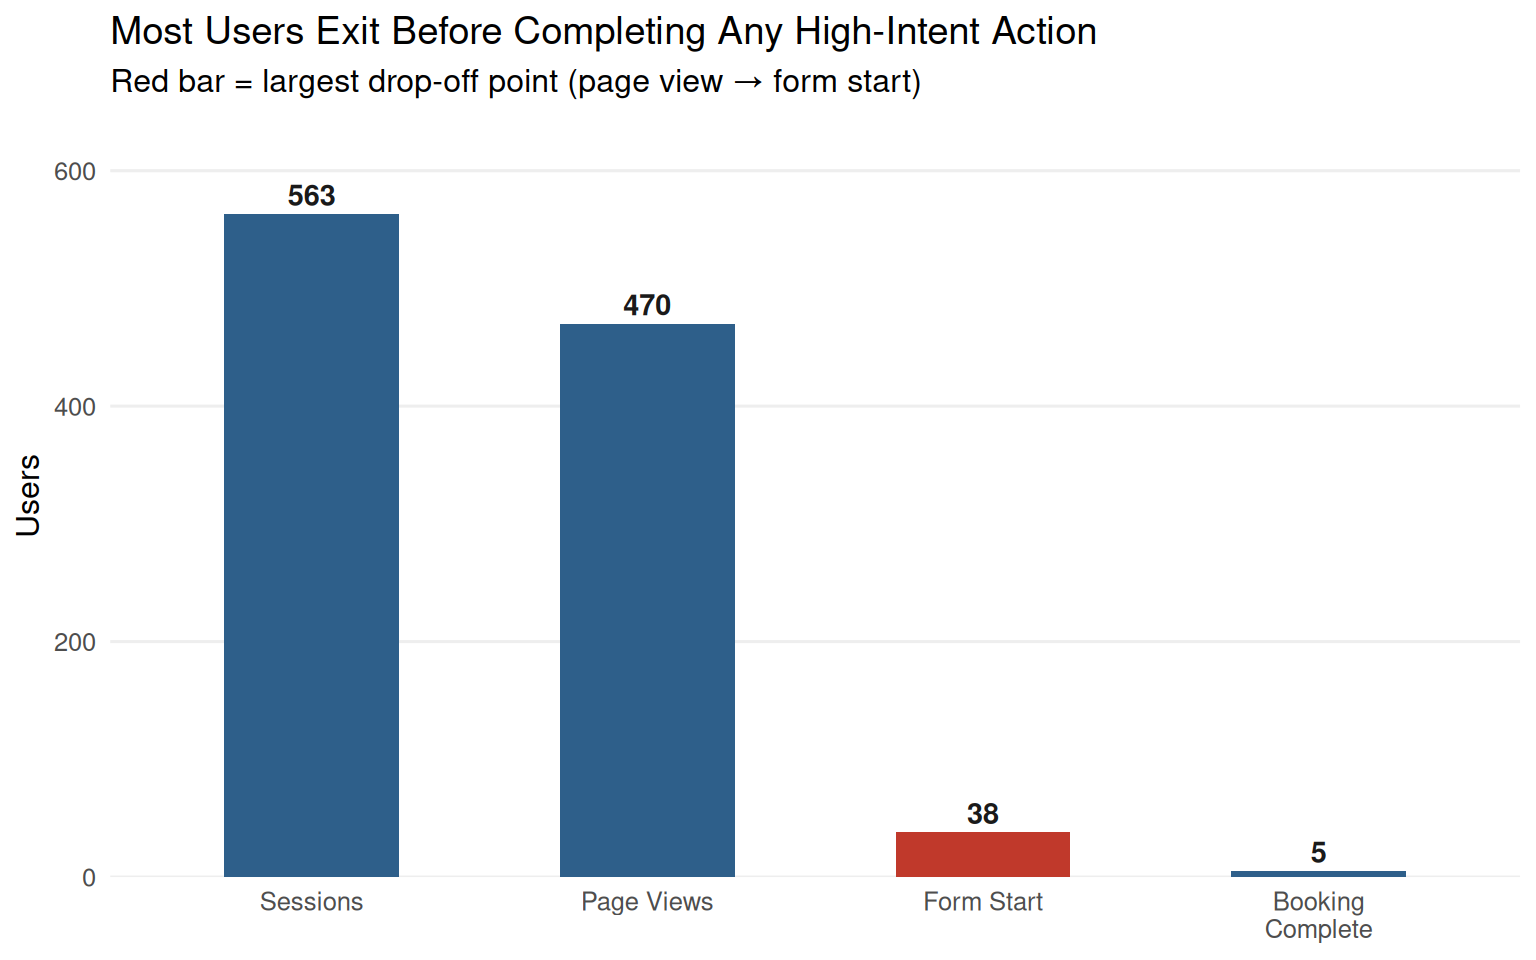
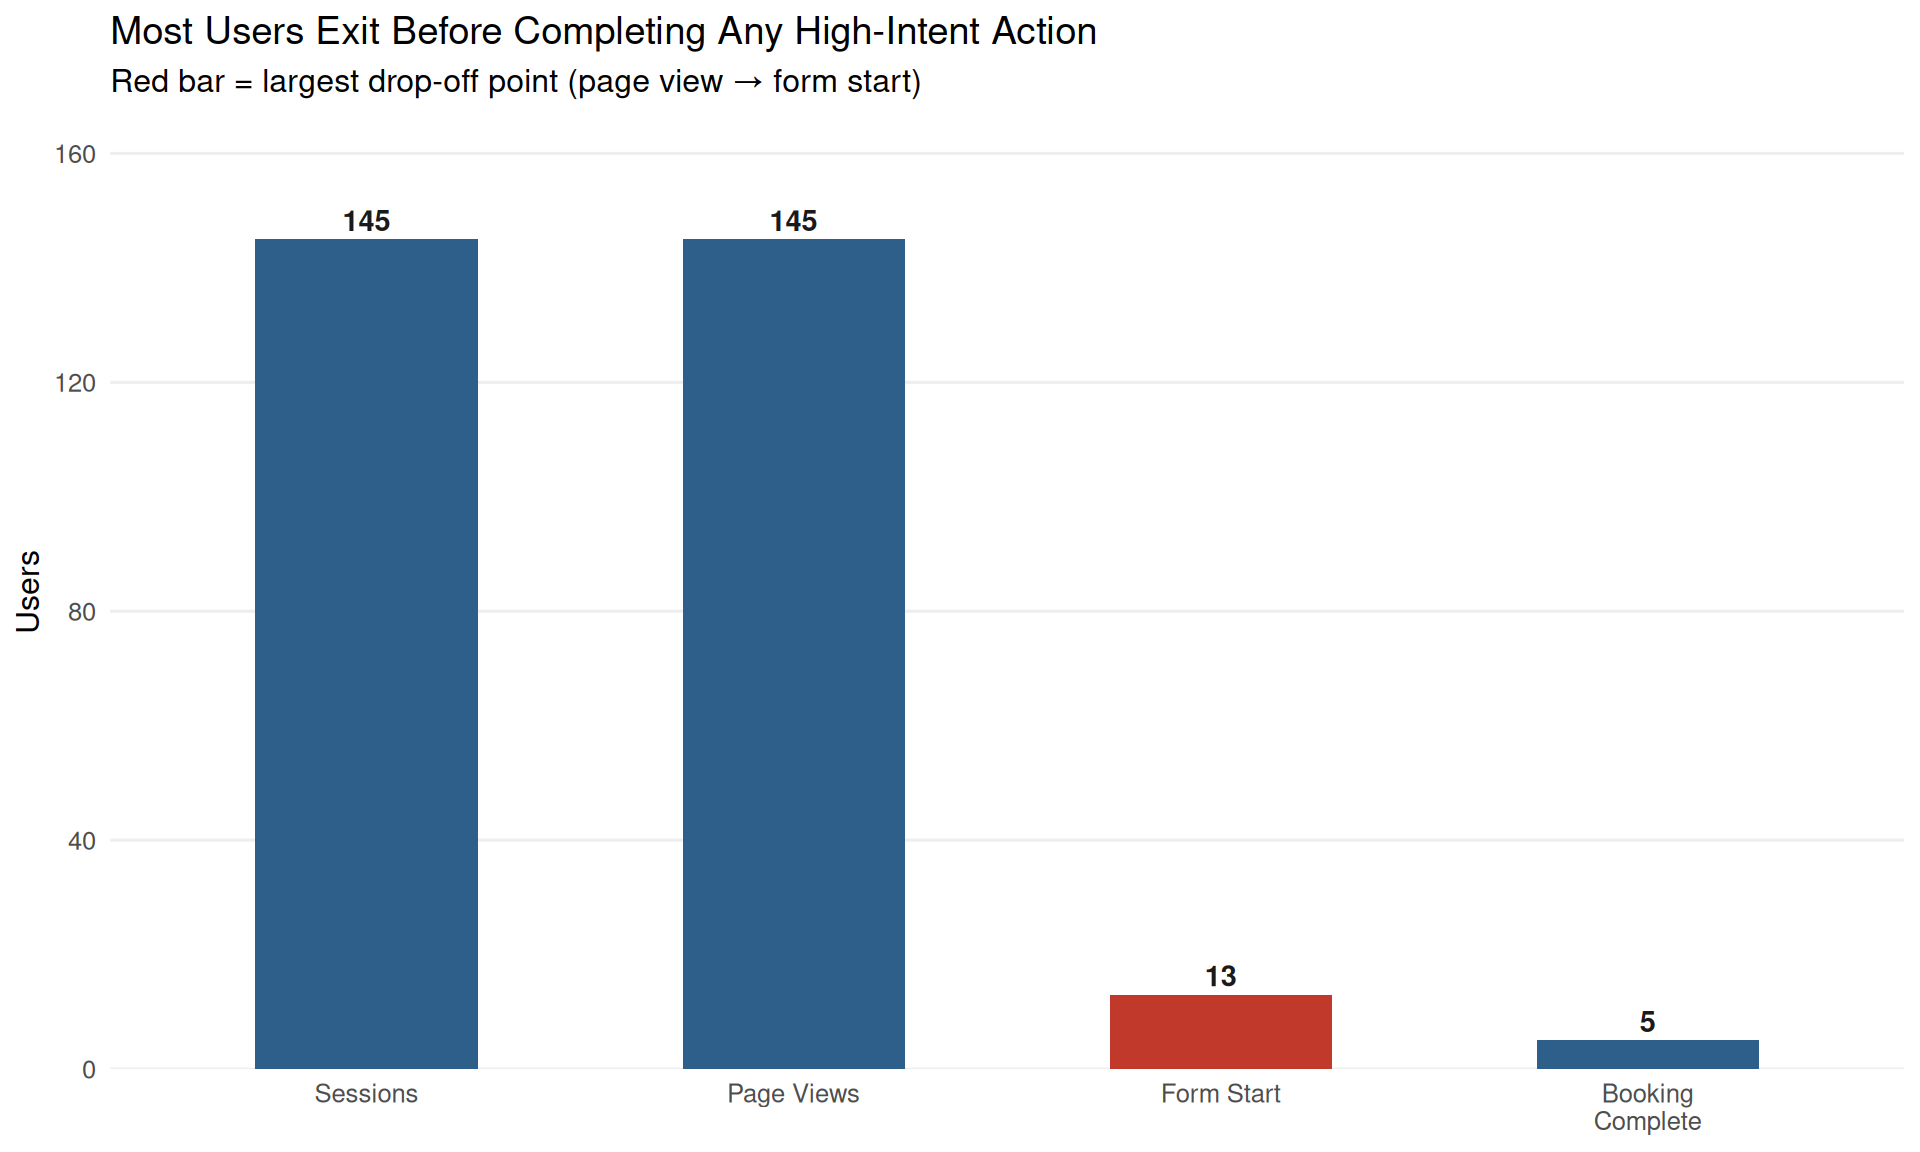
dashboard changes

diff --git a/test-dashboard.html b/test-dashboard.html
@@ -181,10 +181,10 @@ Booking Funnel: Most Users Exit Before the Form
 </span></div></div>
 <div class="cell card-body html-fill-item html-fill-container">
 <div class="cell-output-display html-fill-item html-fill-container">
-<div id="fig-funnel" class="quarto-float quarto-figure quarto-figure-center html-fill-item html-fill-container" width="768">
+<div id="fig-funnel" class="quarto-float quarto-figure quarto-figure-center html-fill-item html-fill-container" width="100%" height="100%">
 <figure class="quarto-float quarto-float-fig figure html-fill-item html-fill-container">
 <div aria-describedby="fig-funnel-caption-0ceaefa1-69ba-4598-a22c-09a6ac19f8ca" class="html-fill-item html-fill-container">
-<img src="test-dashboard_files/figure-html/fig-funnel-1.png" id="fig-funnel" class="img-fluid figure-img quarto-dashboard-img-contain">
+<img src="test-dashboard_files/figure-html/fig-funnel-1.png" id="fig-funnel" style="width:100.0%;height:100.0%" class="figure-img quarto-dashboard-img-contain">
 </div>
 <figcaption class="quarto-float-caption-bottom quarto-float-caption quarto-float-fig quarto-uncaptioned" id="fig-funnel-caption-0ceaefa1-69ba-4598-a22c-09a6ac19f8ca">
 Figure&nbsp;2